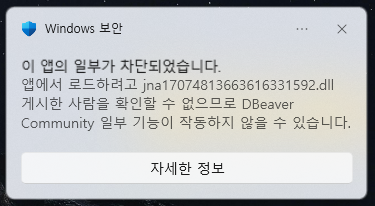
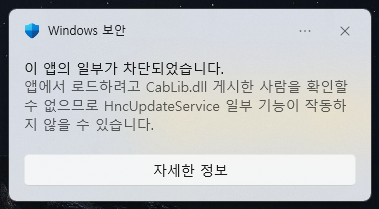
update: windows-smart-app-control 포스팅 수정

diff --git a/_posts/2026-02-11-windows-smart-app-control.md b/_posts/2026-02-11-windows-smart-app-control.md
@@ -8,5 +8,28 @@ thumbnail: /page/error/menu/windows/images/thumbnail-windows.png
 link-type: link
 ---
 
-### 이 앱의 일부가 차단되었습니다.
+<div class="pb-50"></div>
 ![alt text]({{ site.baseurl }}/page/error/menu/windows/images/smart-app-control-1.png)
+
+어느 날 컴퓨터를 켜보니 일부 프로그램이 작동이 안되고, 위와 같은 메시지가 무한으로 나타나기 시작했다.
+> 검색해보니 <span class="marker">스마트 앱 컨트롤</span>이 원인이며, 이걸 끄면 된다고 한다.
+<div class="pb-30"></div>
+
+## - 해결 방법 -
+#### 1. 윈도우 버튼을 누른 다음 <span class="marker">Windows 보안</span>을 검색해서 들어간다.
+> ![alt text]({{ site.baseurl }}/page/error/menu/windows/images/smart-app-control-2.png)
+
+#### 2. <span class="marker">앱 및 브라우저 컨트롤</span> 클릭
+> ![alt text]({{ site.baseurl }}/page/error/menu/windows/images/smart-app-control-3.png)
+
+#### 3. <span class="marker">스마트 앱 컨트롤 설정</span>클릭
+> ![alt text]({{ site.baseurl }}/page/error/menu/windows/images/smart-app-control-4.png)
+
+#### 4. <span class="marker">끄기</span>를 클릭하면
+> ![alt text]({{ site.baseurl }}/page/error/menu/windows/images/smart-app-control-5.png)
+
+#### 5. 이런 확인창이 나오는데 '예'를 누른다. <span class="marker">(끈다해도 사용하는데 아무 지장이 없다.)</span>
+> ![alt text]({{ site.baseurl }}/page/error/menu/windows/images/smart-app-control-6.png)
+
+#### 6. 결과 <span class="marker">(26년 업데이트 이후로 켜고 끄는 것을 사용자가 자유롭게 설정할 수 있다고 한다.)</span>
+> ![alt text]({{ site.baseurl }}/page/error/menu/windows/images/smart-app-control-7.png)
